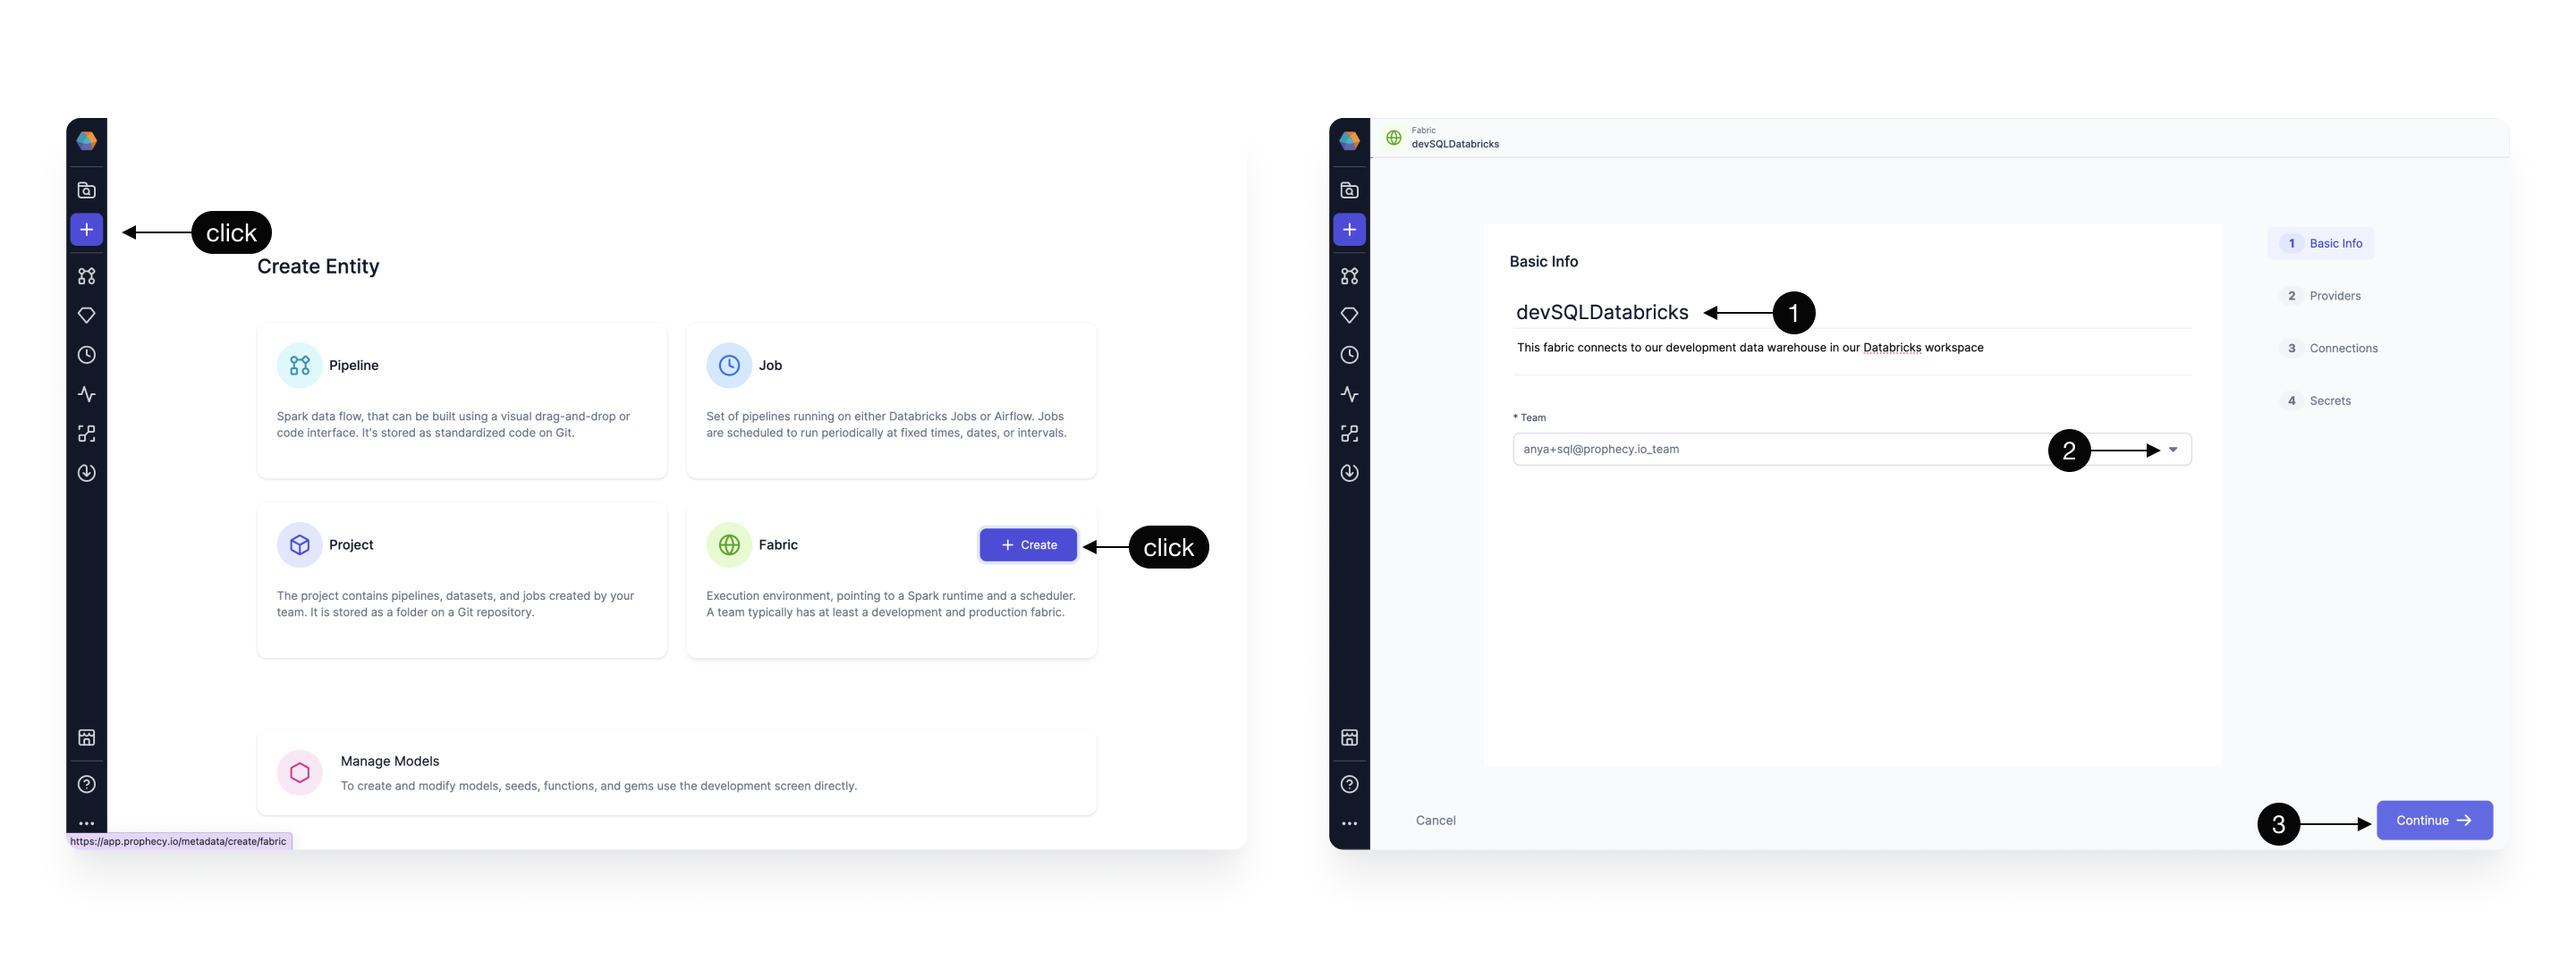
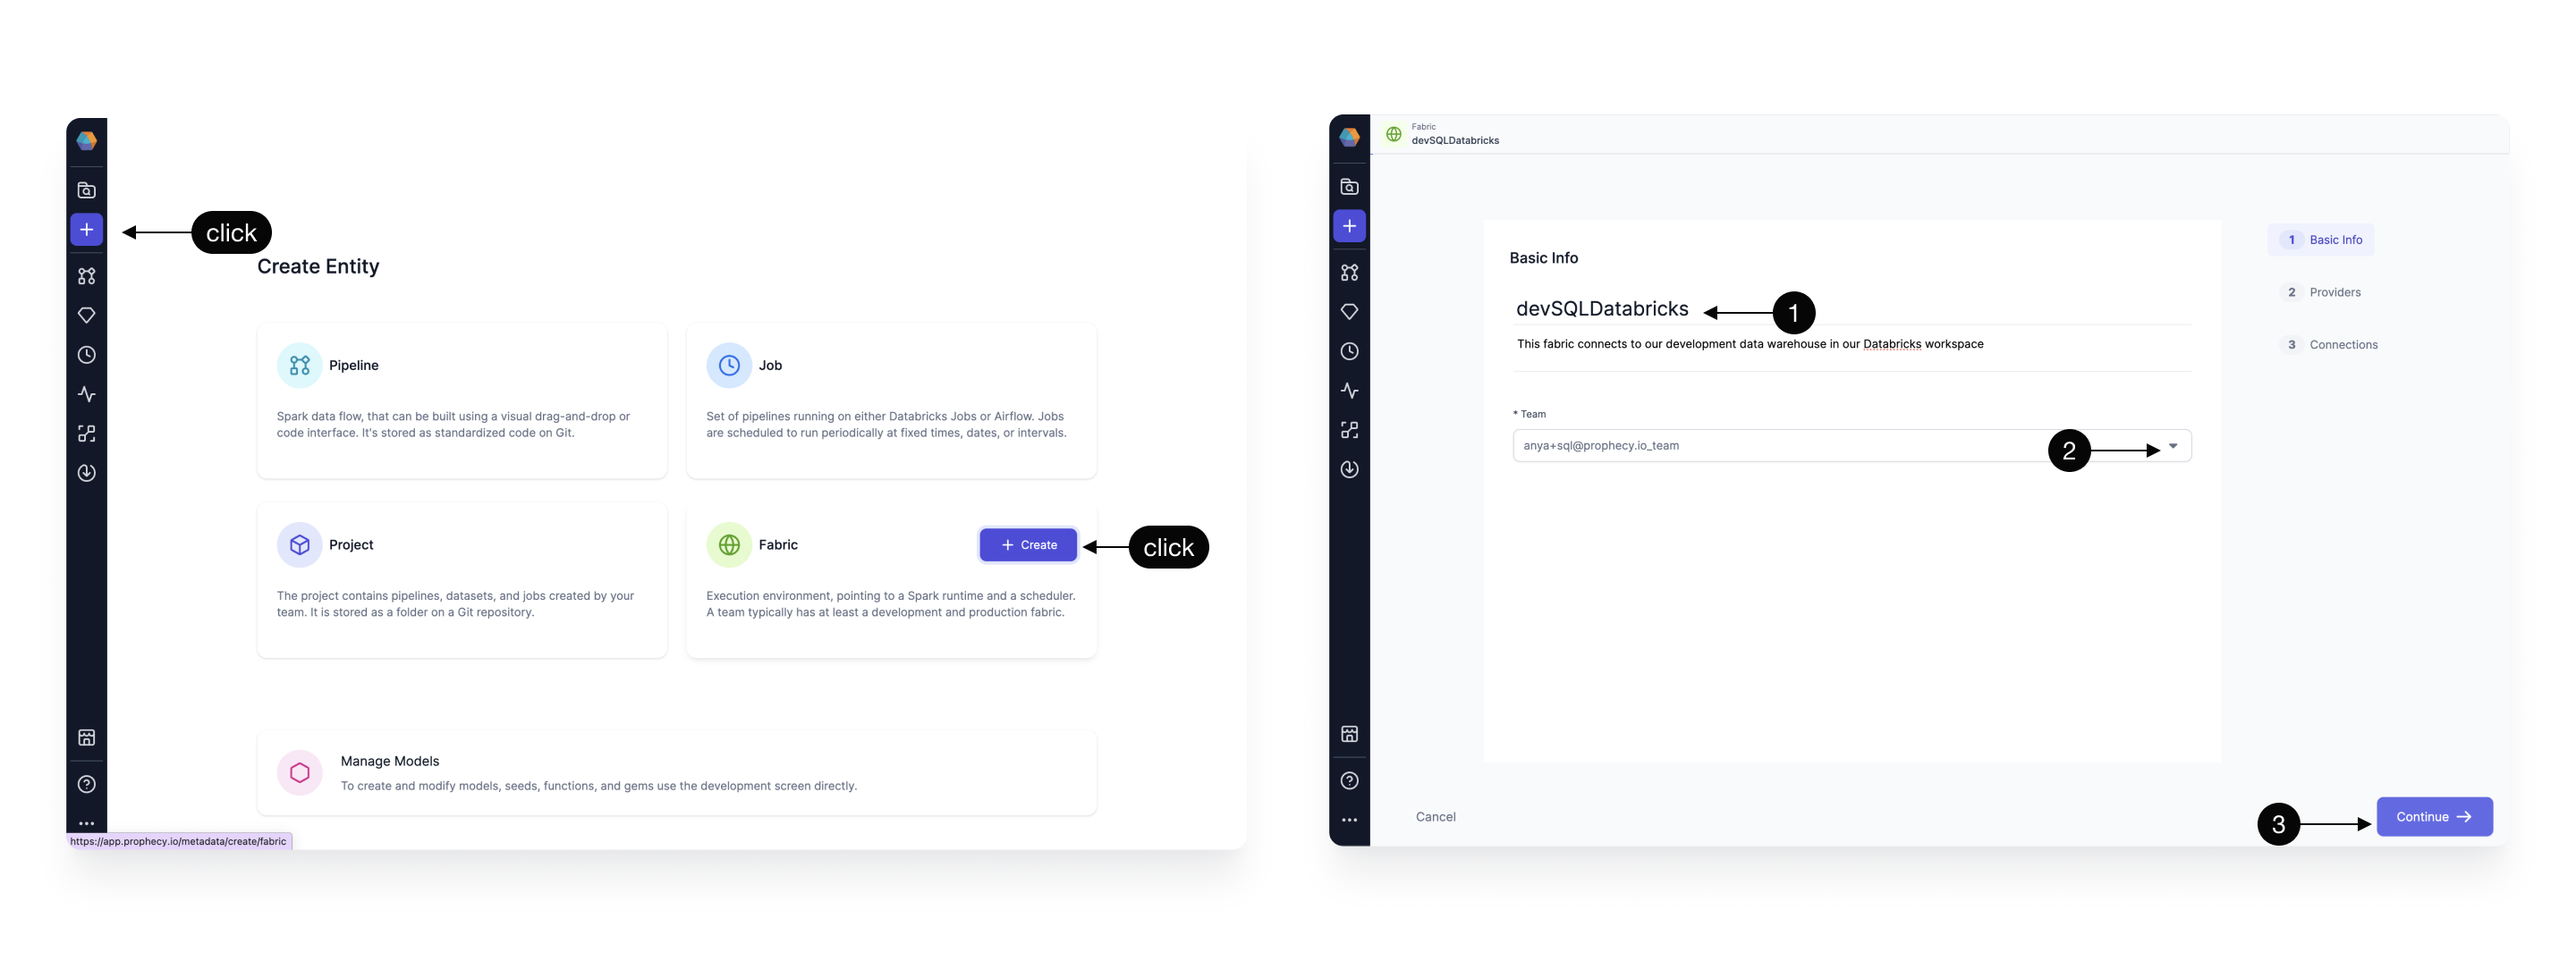
adding fabrics for low-code-sql

diff --git a/docs/low-code-sql/fabrics/snowflake.md b/docs/low-code-sql/fabrics/snowflake.md
@@ -11,21 +11,19 @@ tags:
   - fabric
 ---
 
-Snowflake has become a leading SQL Warehouse provider on the cloud. Follow the steps below to create a Fabric in Prophecy so that you can execute data transformations on your Snowflake Warehouse.
+Snowflake has become a leading SQL Warehouse provider on the cloud. Follow the steps below to [Create a Fabric](./snowflake.md#create-a-fabric) in Prophecy so that you can execute data transformations on your Snowflake Warehouse. Power up Production models with [scheduled Jobs](./snowflake.md#schedule-jobs) on your Snowflake Warehouse using Airflow. Prophecy supports low-code development at every step.
 
 ## Create a Fabric
 
 Create an entity by clicking the **plus** icon. Click to **Create a Fabric**.
-There are four steps to creating a Fabric:
+There are two essential steps to creating a Fabric:
 
 1. [Basic info](./snowflake.md#basic-info)
 2. [Providers](./snowflake.md#provider)
-3. [Connections](./snowflake.md#connections) (coming soon)
-4. [Secrets](./snowflake.md#secrets) (coming soon)
 
 ### Basic Info
 
-First we’ll give our Fabric some **Basic information**
+Each Fabric requires some **Basic information**
 ![SFBasicInfo](./img/SnowflakeFabric1.png)
 
 | Basic Info                                                                                                                                                                                       |
@@ -36,7 +34,7 @@ First we’ll give our Fabric some **Basic information**
 
 ### Provider
 
-Add the **Provider** details. The SQL provider is both the storage warehouse and the execution environment where your SQL code will run.
+The SQL **Provider** is both the storage warehouse and the execution environment where your SQL code will run.
 ![SFProvider](./img/SnowflakeFabric2.png)
 
 | Provider details                                                                                                                                                                                                                                                                                                                                                                       |
@@ -49,19 +47,27 @@ Add the **Provider** details. The SQL provider is both the storage warehouse and
 | **6 Role** - Add the Snowflake role that Prophecy will use to read data and execute queries on the Snowflake Warehouse. The role matches the username/password provided above and should be scoped according to the permission set desired for Prophecy.                                                                                                                               |
 | **7 Warehouse** - Specify the Snowflake warehouse for this execution environment.                                                                                                                                                                                                                                                                                                      |
 | **8 Database** - Specify the Snowflake database for this execution environment.                                                                                                                                                                                                                                                                                                        |
-| **9 Continue** to the Connections step, which is a feature coming soon for Snowflake Fabrics. Then Click Complete.                                                                                                                                                                                                                                                                     |
+| **9 Continue** to complete the Fabric creation.                                                                                                                                                                                                                                                                                                                                        |
 
-### Connections
-
-(Coming soon for Snowflake Fabrics.)
-
-### Secrets
-
-([Secrets](https://docs.prophecy.io/low-code-spark/secret-management/) are currently implemented for Spark fabrics and are coming soon for SQL Fabrics.)
-
-Now the Snowflake Fabric is complete! Once you’ve created a Fabric, it will appear on the Metadata page. Team Admins can manage their Team’s Fabrics by clicking into the Fabric from this Metadata page. Prophecy SQL Projects can connect to your new Snowflake SQL Fabric, read tables, and execute models.
+Completed Fabrics will appear on the Metadata page and can be managed by Team admins.
 ![FabricMetadata](./img/FabricMetadata.png)
 
-## Scheduling
+Each team member can attach completed Fabrics to their Projects and Models.
+![SFAttachCluster](./img/SnowflakeAttachCluster.png)
+
+| **Attach a Fabric to a Model**                                                                                                       |
+| ------------------------------------------------------------------------------------------------------------------------------------ |
+| **1 Metadata** - Click the Prophecy Metadata and search for a Project or Model of interest. Open the Model.                          |
+| **2 Model** - Here we have opened a SQL model called "MyModel"                                                                       |
+| **3 Attach Cluster** - This dropdown menu lists the Fabrics and execution clusters available to this Project, according to the Team. |
+| **4 Snowflake Fabric** - The avaialable Fabrics appear here.                                                                         |
+| **5 Attach Cluster** - The Snowflake Warehouse can be attached to the Model for execution.                                           |
+| **6 Run Model** - Once a Fabric and Cluster are attached to the Project, the Model can be run interactively using the play button.   |
+
+:::info
+Remember, each user will be prompted to update the Fabric with their own credentials. Prophecy respects these credentials when accessing Snowflake tables, databases, etc.
+:::
+
+## Schedule Jobs
 
 SQL models can be scheduled using Airflow to run on Snowflake. Create an [Airflow Fabric](https://docs.prophecy.io/low-code-jobs/airflow/setup/), and setup a [Snowflake Connection](https://docs.prophecy.io/low-code-jobs/airflow/setup/MWAA_fabric#setting-up-connections) that references the Snowflake Fabric created above. Prophecy supports Snowflake Connections from these three Airflow flavors: [Composer](https://docs.prophecy.io/low-code-jobs/airflow/setup/composer_fabric), [MWAA](https://docs.prophecy.io/low-code-jobs/airflow/setup/MWAA_fabric#setting-up-connections), and [Prophecy Managed Airflow](https://docs.prophecy.io/low-code-jobs/airflow/setup/prophecy-managed/connections/prophecy_managed_airflow_fabric_snowflake_connections).

diff --git a/docs/low-code-sql/fabrics/databricks.md b/docs/low-code-sql/fabrics/databricks.md
@@ -16,16 +16,15 @@ Databricks SQL Warehouse offers seamless integration into the Databricks ecosyst
 ## Create a Fabric
 
 Create an entity by clicking the **plus** icon. Click to **Create a Fabric**.
-There are four steps to creating a Fabric:
+There are three steps to creating a Fabric:
 
 1. [Basic info](./databricks.md#basic-info)
 2. [Providers](./databricks.md#provider)
-3. [Connections](./databricks.md#connections)
-4. [Secrets](./databricks.md#secrets) (coming soon)
+3. [Connections](./databricks.md#connections) (optional)
 
 ### Basic Info
 
-First we’ll give our Fabric some **Basic information**
+Each Fabric requires some **Basic information**
 
 ![DBInfo](./img/DatabricksFabric1.png)
 
@@ -37,7 +36,7 @@ First we’ll give our Fabric some **Basic information**
 
 ### Provider
 
-Add the **Provider** details. The SQL provider is both the storage warehouse and the execution environment where your SQL code will run. Be sure to **Start** the Databricks Warehouse before trying to setup the Fabric.
+The SQL **provider** is both the storage warehouse and the execution environment where your SQL code will run. Be sure to **Start** the Databricks Warehouse before trying to setup the Fabric.
 
 ![SFProvider](./img/DatabricksFabric2.png)
 
@@ -48,18 +47,31 @@ Add the **Provider** details. The SQL provider is both the storage warehouse and
 | **3 - JDBC URL** - Copy the JDBC URL from the Databricks UI as shown. This is the URL that Prophecy will connect for SQL Warehouse data storage and execution.                                                                                                                                                                  |
 | **4 - Personal Databricks Access Token ** - This is the token Prophecy will use to connect to Databricks. Each user will need to apply their own token. To generate a Databricks PAT follow [these instructions](https://docs.databricks.com/en/dev-tools/auth/pat.html#databricks-personal-access-tokens-for-workspace-users). |
 | **5 - Catalog** - (Optional) Enter the Catalog name if you are using Unity Catalog                                                                                                                                                                                                                                              |
-| **6 - Continue** to the Connections step.                                                                                                                                                                                                                                                                                       |
+| **6 - Continue** to the optional Connections step.                                                                                                                                                                                                                                                                              |
 
 ### Connections
 
-If your Warehouse includes hundreds or thousands of tables, consider setting up a [Metadata Connection](/docs/metadata/metadata-connections.md). Follow the steps detailed [here](/docs/metadata/metadata-connections.md#add-a-metadata-connection) and enjoy a faster listing of Databricks SQL Warehouse tables in the Prophecy Project browser. Be sure to **enable** the connection to query the selected Warehouse at the interval defined in the Connection.
+(Optional) Browsing data catalogs, tables, and schemas can be a time-intensive operation especially for Warehouses with hundreds or thousands of tables. To address this challenge, Prophecy offers a [Metadata Connection](/docs/metadata/metadata-connections.md) to sync metadata from the data provider at regular intervals. These [steps](/docs/metadata/metadata-connections.md#add-a-metadata-connection) describe how to setup a metadata connection once a Databricks SQL Fabric is created.
 
-![DBConnection](./img/DatabricksFabric3.png)
+## Using Fabrics
 
-### Secrets
-
-([Secrets](https://docs.prophecy.io/low-code-spark/secret-management/) are currently implemented for Spark fabrics and are coming soon for SQL Fabrics.)
-
-Now the Databricks SQL Fabric is complete! Once you’ve created a Fabric, it will appear on the Metadata page. Team Admins can manage their Team’s Fabrics by clicking into the Fabric from this Metadata page. Prophecy SQL Projects can connect to your new Databricks SQL Fabric, read tables, and execute models.
-
+Completed Fabrics will appear on the Metadata page and can be managed by Team admins.
 ![FabricMetadata](./img/FabricMetadata.png)
+
+Each team member can attach completed Fabrics to their Projects and Models.
+![SFAttachCluster](./img/DatabricksAttachCluster.png)
+
+| **Attach a Fabric to a Model**                                                                                                            |
+| ----------------------------------------------------------------------------------------------------------------------------------------- |
+| **1 Metadata** - Click the Prophecy Metadata and search for a SQL Project or Model of interest. Open the Model.                           |
+| **2 Model** - Here we have opened a Model called "Customers."                                                                             |
+| **3 Attach Cluster Menu** - This dropdown menu lists the Fabrics and execution clusters available to this Project, according to the Team. |
+| **4 Databricks Fabric** - The available Fabrics appear here. Only SQL Fabrics are available to attach to SQL Projects.                    |
+| **5 Attach Cluster** - The Databricks Warehouse can be attached to the Model for execution.                                               |
+| **6 Run Model** - Once a Fabric and Cluster are attached to the Project, the Model can be run interactively using the play button.        |
+
+:::info
+Remember, each user will be prompted to update the Fabric with their own credentials. Prophecy respects these credentials when accessing Databricks catalogs, tables, databases, etc.
+:::
+
+Once a Project is attached to a Fabric, and the Project is released, the Project can be scheduled to run on a regular frequency using [Databricks Jobs](/docs/getting-started/getting-started-with-low-code-sql.md#5-orchestrate-and-deploy)

diff --git a/docs/low-code-sql/fabrics/fabrics.md b/docs/low-code-sql/fabrics/fabrics.md
@@ -5,11 +5,21 @@ id: Fabrics
 tags: [Fabric, SQL, Execution, Snowflake, Databricks]
 ---
 
-A Fabric is a logical execution environment. Teams can organize their data engineering into multiple environments such as development, staging, and production. SQL Fabrics define the credentials for Prophecy to connect to the SQL Warehouse. Importantly, each user must update the relevant Fabric with their own credentials. Once a SQL Fabric is created, Prophecy can ingest data, execute data models and generate target tables.
+A Fabric is a logical execution environment. Teams can organize their data engineering into multiple environments such as development, staging, and production. SQL Fabrics define the credentials for Prophecy to connect to the SQL Warehouse or Lakehouse. Importantly, each user must update the relevant Fabric with their own credentials. Once a SQL Fabric is created, Prophecy can access data, execute data models and generate target tables.
 
 Prophecy supports Databricks and Snowflake SQL Warehouses, with more options coming soon.
 ![Providers](./img/Providers.png)
 
-1. Click [here](./snowflake.md) for steps to create a SQL Snowflake Fabric. To run Models on a schedule, setup an [Airflow Fabric](/docs/low-code-jobs/airflow/setup/setup.md), and add a [Connection](/docs/low-code-jobs/airflow/setup/mwaa.md#setting-up-snowflake-connection) to the Snowflake Fabric.
+1. **[Snowflake SQL Fabrics](./snowflake.md)** - Provide Prophecy access to use the Snowflake warehouse data storage and compute engine capabilities.
 
-2. Click [here](./databricks.md) for steps to create a SQL Databricks Fabric. To run Models on a schedule, setup a [Databricks Job](/docs/low-code-jobs/databricks-jobs.md).
+2. **[Databricks SQL Fabrics](./databricks.md)** - Provide Prophecy access to use the Databricks' Warehouse storage and compute engine capabilities.
+
+## Job Scheduling
+
+In addition to secure, ad-hoc model runs on Snowflake and Databricks, Job scheduling is done with a low-code easy-to-use interface.
+
+1. Snowflake users schedule Jobs with Airflow. Prophecy's [Airflow Fabric](/docs/low-code-jobs/airflow/setup/setup.md) facilitates a [Connection](/docs/low-code-jobs/airflow/setup/mwaa.md#setting-up-snowflake-connection) to the Snowflake Fabric.
+
+2. Databricks users schedule Jobs with [Databricks Jobs](/docs/low-code-jobs/databricks-jobs.md) in Prophecy.
+
+Once a Snowflake or Databricks SQL Fabric is setup, Prophecy's interface makes it easy to run Models on a daily, weekly, or monthly basis using Airflow or Databricks Jobs.

diff --git a/docs/low-code-sql/low-code-sql.md b/docs/low-code-sql/low-code-sql.md
@@ -5,7 +5,7 @@ description: Low-code SQL
 tags: []
 ---
 
-Prophecy low-code SQL combines the the best of both worlds: high-quality code based on software engineering best practices with a complete, easy-to-use visual environment.
+Prophecy low-code SQL combines the the best of both worlds; **high-quality code** based on software engineering best practices with a complete, **easy-to-use visual** environment.
 
 ![CodeToVisual](./img/CodeToVisual.png)
 
@@ -23,9 +23,13 @@ Projects built through Prophecy are stored in the dbt Core format as repositorie
 
 Maintenance is simple since Prophecy gems turn into code on Git that’s always up-to-date with the latest version of the warehouse or lakehouse used. And, to ensure the best performance at all times, Prophecy is smart about which code construct (subquery or CTE) to use.
 
-## Sharing of data products
+## Sharing of Projects as Packages
 
-With Prophecy 3.0, sharing data products has never been easier. Data users can import an existing dbt Core project or start from scratch. They can publish those projects to other teams or subscribe to already existing ones. Published projects contain models allowing for easy governance and functions and gems allowing for code reusability.
+Data users can import an existing dbt Core project or start from scratch. They can publish those projects to other teams or subscribe to already existing ones. Projects published as packages contain models, functions and Gems allowing for code reusability at every level.
+
+## Learn more
+
+A word from Prophecy's co-Founder, Maciej! See how Prophecy allows every team, whether visual or code developers, to use the same software development best practices.
 
 <div class="wistia_responsive_padding" style={{padding:'56% 0 0 0', position:'relative'}}>
 <div class="wistia_responsive_wrapper" style={{height:'100%',left:0,position:'absolute',top:0,width:'100%'}}>

diff --git a/docs/getting-started/getting-started-with-low-code-sql.md b/docs/getting-started/getting-started-with-low-code-sql.md
@@ -354,6 +354,10 @@ Let’s start by dragging and dropping the the **(2) DBT Gem.** Once it’s on t
 2. **Databricks SQL Warehouse** - defines on which warehouse our SQL code is going to execute, we set it to the recently created Fabric;
 3. **Git reference value** - defines from which branch on Git, the code is pulled to execute, we set it to the currently used developed branch - same as what we set in the step 5.1 Checkout development branch (the name can be also seen in the footer).
 
+:::info
+DBT Projects will appear in this dropdown if (1) the Project is released and (2) the Project is hosted on Git outside Prophecy's managed Git provider.
+:::
+
 Once all the basic properties are set click **(4) Save.**
 
 We can quickly verify that our schedule runs correctly by executing it, by clicking on the **(5) Play** button. Upon the click, the execution starts and you can track it’s progress. When finished successfully, we know that the project is ready to be deployed.
